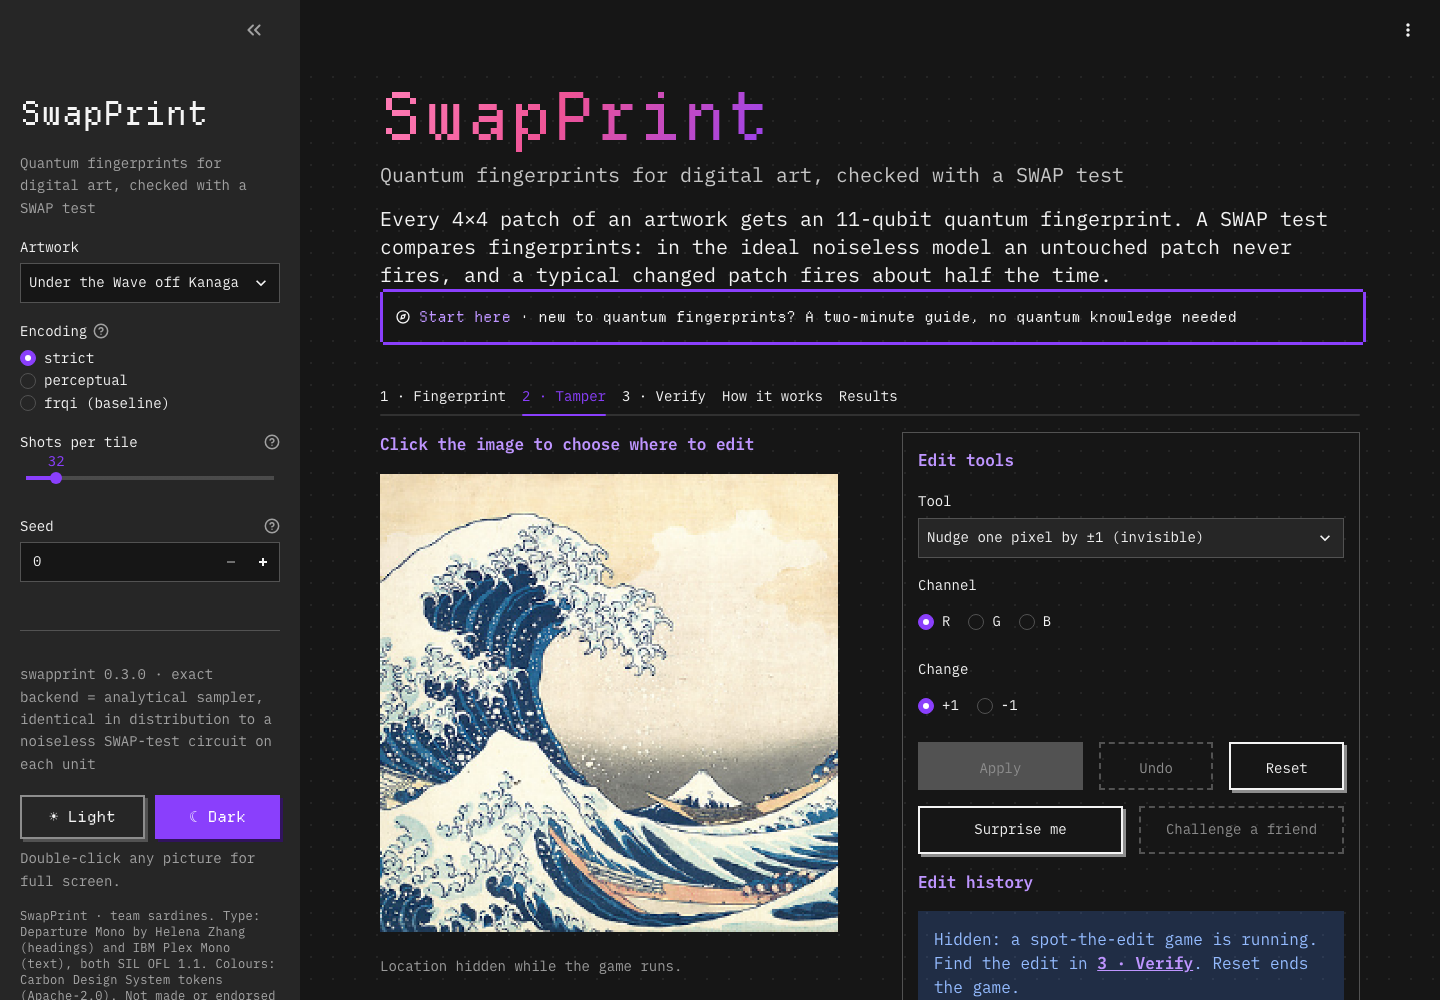
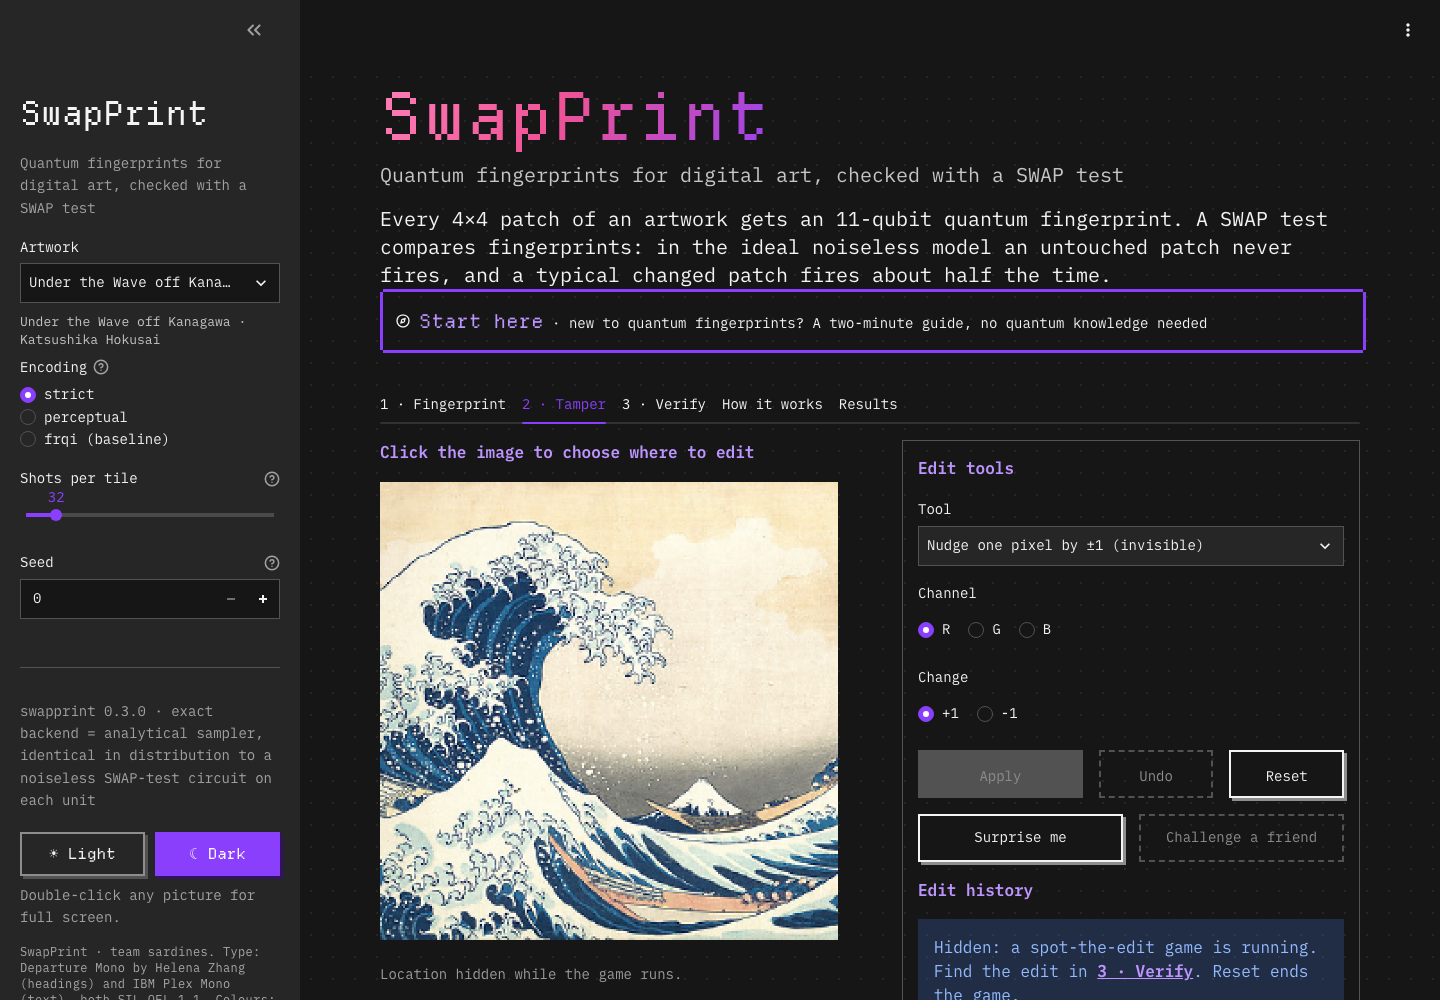
app: long artwork names are readable: dropdown options wrap, full name shown under the picker
The picker is a one-line input, so the full 'title · artist' now sits underneath it, wrapped. Option rows in every
dropdown (artwork, tool, donor) grow to two or three lines instead of cutting names off. Screenshots retaken.

diff --git a/app/pixel.css b/app/pixel.css
@@ -141,6 +141,13 @@ hr { border: 0; height: var(--px); background: repeating-linear-gradient(90deg, 
   background: var(--accent); border-color: var(--accent); color: #ffffff !important; box-shadow: var(--px) var(--px) 0 0 var(--accent-shadow);
 }
 
+/* dropdowns (artwork, tool, donor): long names wrap onto a second line instead of being cut off */
+[role="option"][data-rac] { height: auto !important; min-height: 40px; padding-top: 8px !important; padding-bottom: 8px !important; }
+[role="option"][data-rac] [data-item-hl] { height: auto !important; white-space: normal !important; overflow: visible !important;
+  text-overflow: clip !important; overflow-wrap: anywhere; line-height: 1.35; font-size: 14px; }
+[data-testid="stSidebar"] [data-testid="stSelectbox"] input[role="combobox"] { font-size: 14px; text-overflow: ellipsis; }
+.sp-artwork-full { font-size: 13px; line-height: 1.4; color: var(--text-secondary); margin: -6px 0 6px 0; overflow-wrap: anywhere; }
+
 /* the hidden component that adds double-click full screen takes no space */
 [data-testid="stElementContainer"]:has(iframe[height="0"]), .element-container:has(iframe[height="0"]) { display: none; }
 

diff --git a/app/streamlit_app.py b/app/streamlit_app.py
@@ -13,6 +13,7 @@ import matplotlib  # noqa: E402
 
 matplotlib.use("Agg")  # Streamlit runs scripts off the main thread; the macOS GUI backend crashes there
 
+import html  # noqa: E402
 import io  # noqa: E402
 import logging  # noqa: E402
 import json  # noqa: E402
@@ -282,6 +283,8 @@ with st.sidebar:
     labels["__upload__"] = "Upload your own image…"
     default_art = "hokusai_great_wave.png" if "hokusai_great_wave.png" in options else options[0]
     choice = st.selectbox("Artwork", options, index=options.index(default_art), format_func=labels.get)
+    # the box is a one-line text input that cuts long names off, so the full name sits underneath, wrapped
+    st.markdown(f'<div class="sp-artwork-full">{html.escape(labels[choice])}</div>', unsafe_allow_html=True)
 
     base, source_note = None, ""
     if choice == "__upload__":
